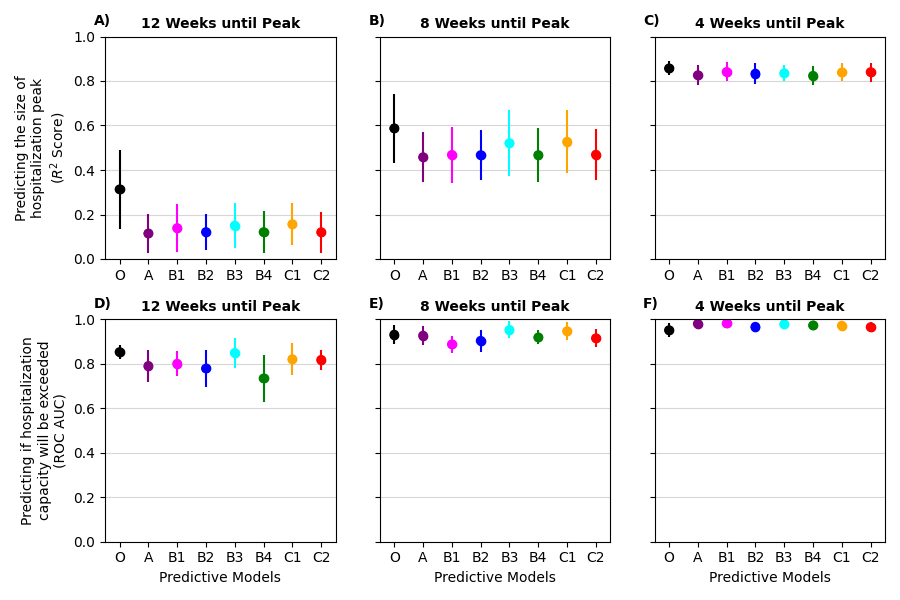
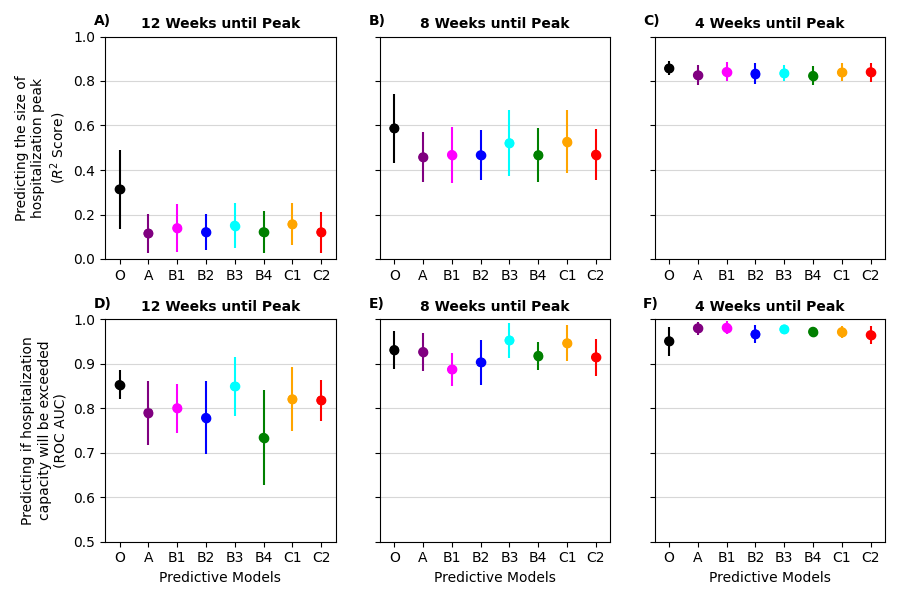
y_range for prob outcome

diff --git a/covid_visualization/plot_prediction.py b/covid_visualization/plot_prediction.py
@@ -13,7 +13,8 @@ FIG_SIZE = (9, 6)
 N_OF_PRED_TIMES = 3 # 12, 8, 4 weeks to peak
 
 
-def add_to_ax(ax, title, panel_label, x_labels, ys, errs, colors, y_label, show_y_values, show_x_label):
+def add_to_ax(ax, title, panel_label, x_labels, ys, errs, colors,
+              y_range, y_label, show_y_values, show_x_label):
 
     x_pos = np.arange(len(x_labels))
     ax.scatter(x_pos, ys, c=colors)
@@ -31,7 +32,7 @@ def add_to_ax(ax, title, panel_label, x_labels, ys, errs, colors, y_label, show_
         ax.set_xlabel('Predictive Models')
     ax.set_xticks(x_pos)
     ax.set_xticklabels(x_labels)
-    ax.set_ylim((0, 1))
+    ax.set_ylim(y_range)
     ax.set_xlim((-0.5, len(x_labels) - 0.5))
     ax.set_title(title, fontsize=10, fontweight='bold')
     ax.yaxis.grid(True, alpha=0.5)
@@ -75,8 +76,10 @@ def add_performance_for_outcome(axes, short_outcome, panel_labels, show_x_label,
         if i == 0:
             if short_outcome == 'size':
                 y_label = Y_LABELS[0]
+                y_range = (0, 1)
             elif short_outcome == 'prob':
                 y_label = Y_LABELS[1]
+                y_range = (0.5, 1)
             else:
                 raise ValueError('Invalid short outcome.')
         else:
@@ -89,6 +92,7 @@ def add_performance_for_outcome(axes, short_outcome, panel_labels, show_x_label,
                   ys=[v[1] for v in value],
                   errs=[v[2] for v in value],
                   colors=X_LABEL_COLORS[:len(value)],
+                  y_range=y_range,
                   y_label=y_label,
                   show_y_values=True if i == 0 else False,
                   show_x_label=show_x_label)
